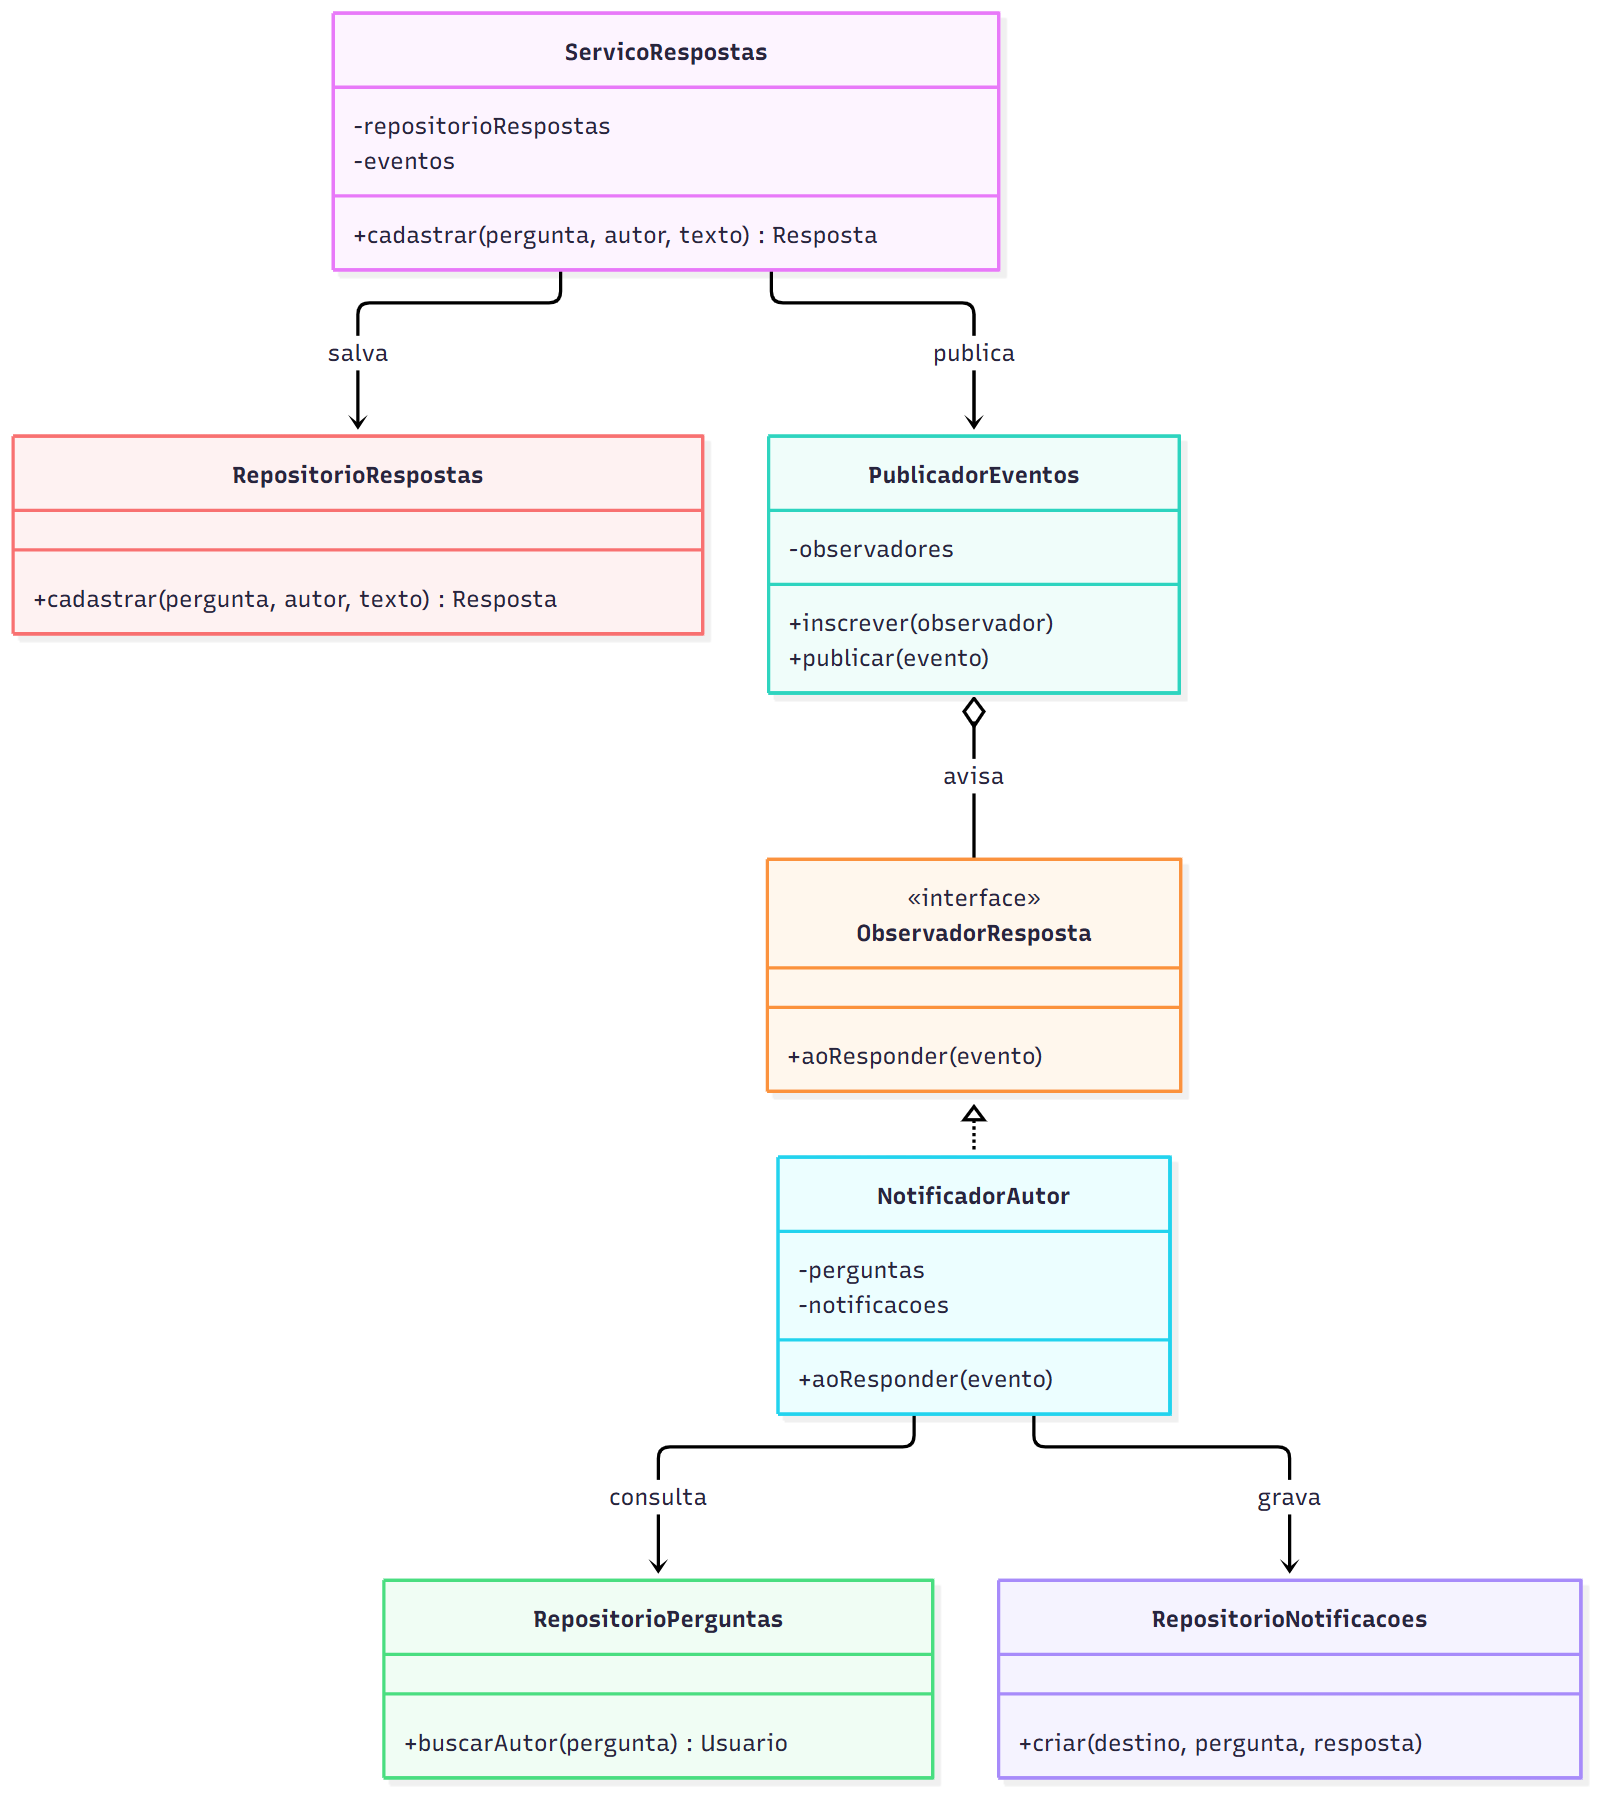
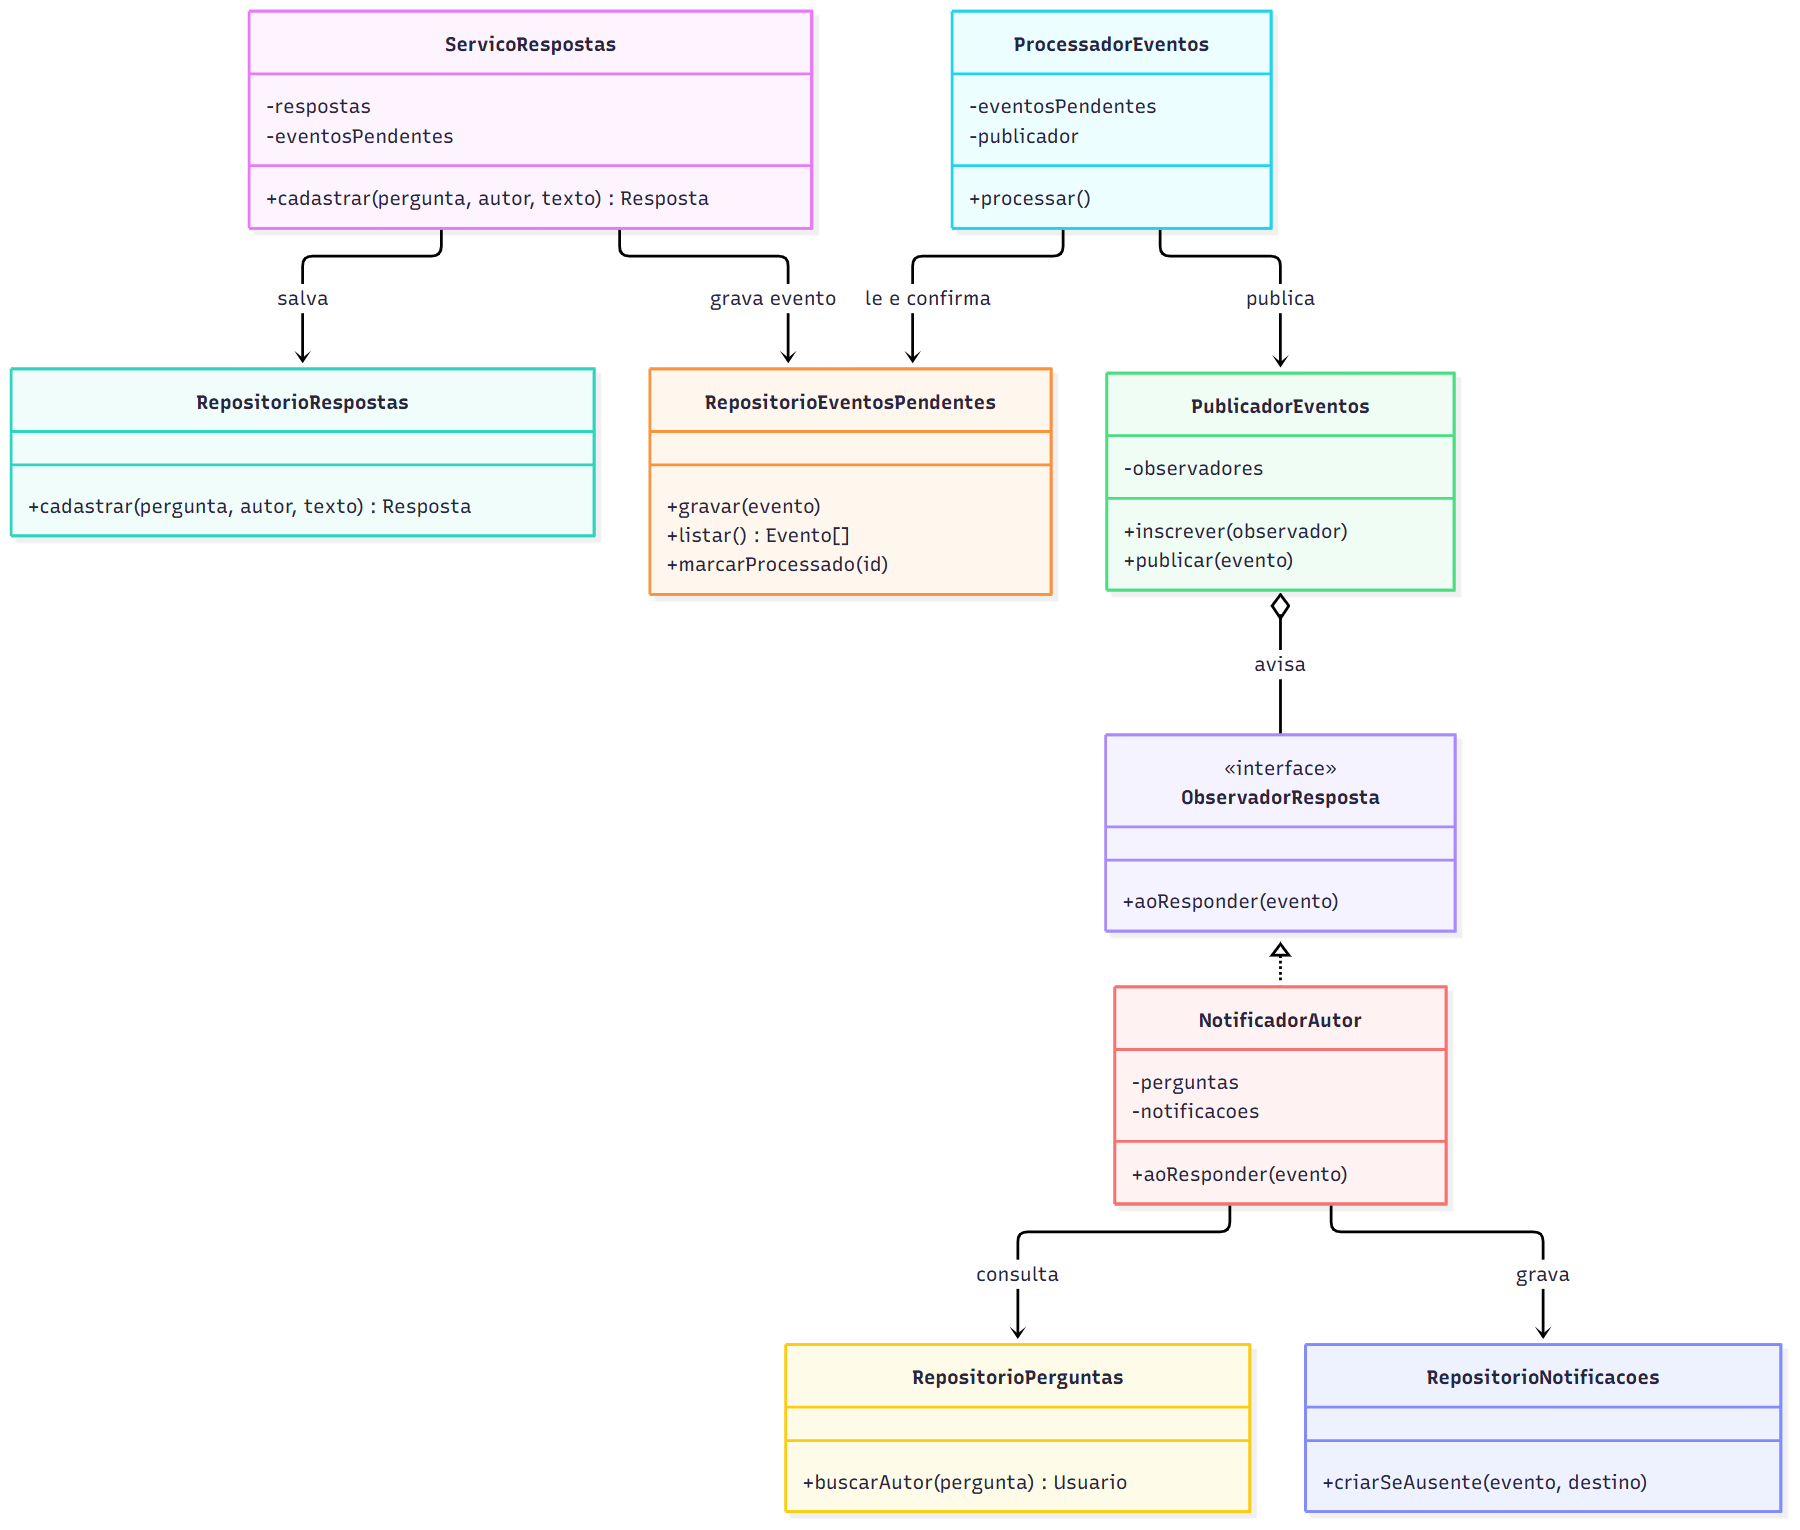
Alinha o Observer ao tratamento de notificacoes pendentes

diff --git a/parte3/PADROES_PROPOSTOS.md b/parte3/PADROES_PROPOSTOS.md
@@ -29,39 +29,45 @@ Essa proposta combina bem com o uso dos dois recursos na mesma página. Para uma
 
 ## 2. Observer para novas respostas
 
-Quando alguém responde a uma pergunta, o autor precisa ser avisado. Colocar toda a lógica de notificações dentro do cadastro de respostas misturaria dois trabalhos. Com Observer, o cadastro publica um evento depois de salvar a resposta, e o notificador recebe esse evento.
+Quando alguém responde a uma pergunta, o autor precisa ser avisado. O cadastro da resposta não precisa conhecer a regra de notificação. Com Observer, um publicador avisa os observadores inscritos sempre que há uma nova resposta.
 
-ServicoRespostas salvaria a resposta pelo RepositorioRespostas e publicaria um evento pelo PublicadorEventos. O evento teria o identificador da pergunta, o da resposta e o do usuário que respondeu. NotificadorAutor seria inscrito no publicador. Ao receber o evento, ele consultaria o autor da pergunta e criaria a notificação pelo RepositorioNotificacoes. Se o próprio autor tiver respondido, não criaria uma notificação para ele mesmo.
+ServicoRespostas salvaria a resposta pelo RepositorioRespostas. Na mesma transação, guardaria um evento no RepositorioEventosPendentes. Esse evento teria o identificador da pergunta, o da resposta e o do usuário que respondeu. A transação garante que uma resposta salva também deixe registrado o aviso que falta entregar.
 
-Os módulos novos seriam o publicador de eventos, o observador de respostas e o repositório de notificações. O cadastro de respostas atual não guarda o autor. Para esta proposta funcionar, a tabela de respostas teria de registrar id_usuario, e as respostas antigas precisariam de uma regra de migração.
+ProcessadorEventos leria os eventos pendentes e os enviaria ao PublicadorEventos. NotificadorAutor seria um dos observadores inscritos. Ele buscaria o autor da pergunta e criaria a notificação pelo RepositorioNotificacoes. Se o autor da pergunta tiver escrito a resposta, não haveria notificação para ele. Depois de avisar os observadores, o processador marcaria o evento como concluído.
 
-O fluxo principal pode ser escrito assim:
+Os módulos novos seriam ServicoRespostas, RepositorioEventosPendentes, ProcessadorEventos, PublicadorEventos, NotificadorAutor e RepositorioNotificacoes. O cadastro atual de respostas não guarda o autor. Para esta proposta funcionar, a tabela de respostas teria de registrar id_usuario, e as respostas antigas precisariam de uma regra de migração.
+
+O fluxo pode ser representado por este código simplificado:
 
 ```javascript
 function cadastrarResposta(pergunta, autorResposta, texto) {
-  const resposta = repositorioRespostas.cadastrar(pergunta, autorResposta, texto);
-  eventos.publicar({ pergunta, resposta: resposta.id_resposta, autorResposta });
-  return resposta;
+  return banco.transaction(() => {
+    const resposta = repositorioRespostas.cadastrar(pergunta, autorResposta, texto);
+    eventosPendentes.gravar({ pergunta, resposta: resposta.id_resposta, autorResposta });
+    return resposta;
+  })();
 }
 
-eventos.inscrever({
+function processarEvento(evento) {
+  publicador.publicar(evento);
+  eventosPendentes.marcarProcessado(evento.id);
+}
+
+publicador.inscrever({
   aoResponder(evento) {
     const autorPergunta = repositorioPerguntas.buscarAutor(evento.pergunta);
     if (autorPergunta !== evento.autorResposta) {
-      repositorioNotificacoes.criar(autorPergunta, evento.pergunta, evento.resposta);
+      repositorioNotificacoes.criarSeAusente(evento.id, autorPergunta, evento.pergunta, evento.resposta);
     }
   }
 });
 ```
 
-O exemplo mostra a relação entre os módulos, não o tratamento completo de falhas. A resposta não deve sumir se a gravação da notificação falhar. Na implementação, seria preciso guardar os eventos pendentes no banco junto com a resposta e processá-los novamente em caso de erro. Isso também evita perder um aviso se o servidor parar entre as duas gravações.
-
-O PublicadorEventos teria inicialmente um observador. Outros avisos relacionados a respostas poderiam ser acrescentados por inscrição, sem colocar mais regras no serviço de cadastro.
+Se a gravação da notificação falhar, o evento continua pendente para outra tentativa. criarSeAusente impediria que essa tentativa gerasse duas notificações iguais. Assim, a resposta permanece salva e o aviso pode ser concluído depois. Outros avisos ligados a novas respostas poderiam ser acrescentados pela inscrição de outro observador.
 
 ![Diagrama de classes do Observer](diagramas/padrao_observer.png)
 
 [Arquivo Mermaid do Observer](diagramas/padrao_observer.mmd)
-
 ## 3. Facade para o perfil do usuário
 
 O perfil precisa juntar nome, perguntas e respostas de uma pessoa. Sem um ponto de entrada para essa operação, a rota teria de chamar vários módulos de dados e montar o resultado. Facade reúne essas chamadas em uma operação de perfil.
